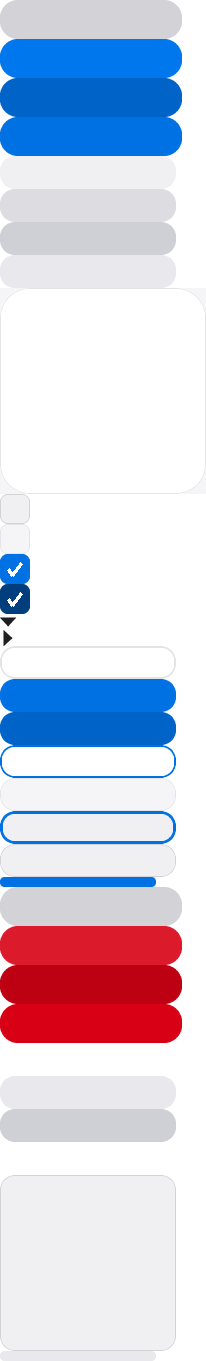
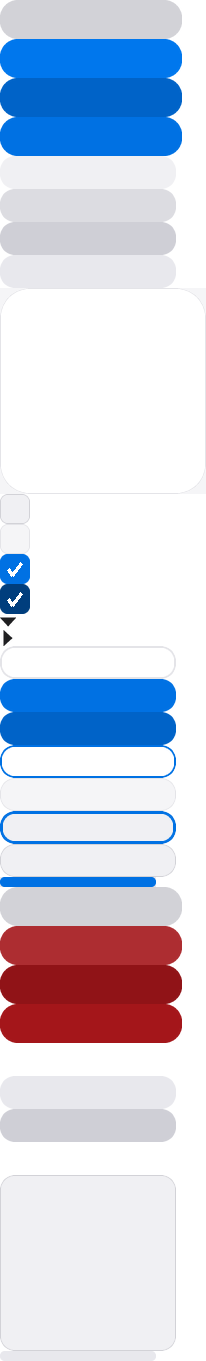
停止紅再暗一階：d70015 改成 a4161a
使用者說停止鈕感覺有點太亮，問 apple.com 的 CSS 有沒有更適合的。

先確認一件事：舊值不是選錯色票。d70015 正是 Apple 自己的 systemRed 高對比版
（Light）。所以問題不在不夠 Apple，而在那個色票本身的飽和度就是 100%——一顆
150px 寬的實心鈕坐在白卡片上，它是整個畫面最搶眼的一塊。Apple 的原版
systemRed（ff3b30／ff453a）更亮，而且白字只有 3.55／3.41:1，早在 08-26 就因為
讀不清楚被換掉了。

換成 a4161a（H 358 / S 87 / V 64），白字順帶從 5.38 升到 7.75:1。

深色模式跟著同值（使用者選的），但這裡有一個要盯著的取捨：紅愈深，在深灰卡片
上的明度差就愈小——d70015 對深卡 2.59、a4161a 只有 1.80。1.80 聽起來很低，但
明度不是唯一的線索：紅與中性灰的色相差異在深色底上照樣看得出來（四種紅畫成
比較圖、兩種底色各一排，看過才定的）。再往下走就不行了——8a0f14 對深卡只剩
1.43，那顆鈕會沉進背景。要再調暗之前先把深色那一排畫出來看。

⚠ 姊妹專案 MP4-2-SRT 的 stop 是同一個值（兩支程式在桌面上是一套，使用者
2026-08-26），那邊要跟著改，否則兩顆停止鈕在同一台機器上會差一階。這一輪沒有
動另一個 repo。

驗收：pytest 35 綠；淺色與深色各截一張轉檔中的畫面確認。

Claude-Session: https://claude.ai/code/session_01Q1JjZk7cZ55GLX3CFcFM2J

Changed region(s): [[0.0, 0.6789, 0.9029, 0.7715]]

diff --git a/pdf2ppt/palette.py b/pdf2ppt/palette.py
@@ -45,10 +45,21 @@ PALETTES = {
         # ---- 主色與動作鈕 ----
         "accent": "#0071e3", "accent_hi": "#0077ed",
         "on_accent": "#ffffff",
-        # ⚠ 停止鈕**兩個模式都用這個深紅**：深色模式的 systemRed（#ff453a）拿來
-        # 當大面積底色時，白字只有 3.4:1；#d70015 是 5.4:1。這顆鈕坐在主要動作的
-        # 位置上、字又是粗體，讀不清楚不是選項。
-        "stop": "#d70015",
+        # ⚠ 停止鈕**兩個模式都用這個深紅**（使用者 2026-08-27 選定）。兩次調整、
+        # 兩個不同的理由，都要留著：
+        #   **對比**（2026-08-26）：Apple 的 systemRed 拿來當大面積底色時白字不夠
+        #     ——#ff3b30 是 3.55:1、深色的 #ff453a 只有 3.41:1。這顆鈕坐在主要動作
+        #     的位置上、字又是粗體，讀不清楚不是選項。當時換成 #d70015（5.38:1），
+        #     那正是 Apple 自己的 systemRed 高對比版。
+        #   **視覺重量**（2026-08-27）：使用者說「感覺有點太亮」。#d70015 的飽和度
+        #     是 100%，在白卡片上是整個畫面最搶眼的一塊。往暗處走一階到 #a4161a
+        #     （S 87%、V 64%）之後不再刺眼，而白字順帶從 5.38 升到 **7.75:1**。
+        # ⚠ 深色模式**跟著同值**（使用者選的）：紅在深灰卡片上的明度差因此從 2.59
+        # 掉到 1.80，但**色相差異還在**，畫面上分得出來（四種紅的比較圖看過才定的）。
+        # 再往下走就不行了——#8a0f14 對深卡只剩 1.43，那顆鈕會沉進背景。
+        # ⚠ **姊妹專案 MP4-2-SRT 的 `stop` 也是這個鍵**（「兩支程式在桌面上是一套」，
+        # 使用者 2026-08-26）：這一個值改了，那邊要跟著改。
+        "stop": "#a4161a",
         "run_off": "#d2d2d7", "run_off_fg": "#8e8e93",
 
         # ---- 次要按鈕 ----
@@ -91,7 +102,7 @@ PALETTES = {
 
         "accent": "#0a84ff", "accent_hi": "#3395ff",
         "on_accent": "#ffffff",
-        "stop": "#d70015",
+        "stop": "#a4161a",   # ⚠ 與淺色同值，理由見那邊
         "run_off": "#3a3a3c", "run_off_fg": "#7c7c80",
 
         # ⚠ 次要按鈕比 meeting-scribe 亮一階（那邊是 #2c2c2e）：卡片正好也是

diff --git a/docs/dev/windows-環境與入口.md b/docs/dev/windows-環境與入口.md
@@ -440,7 +440,7 @@ PNG → base64 → `tk.PhotoImage` → `Style.element_create(..., "image", ...)`
 色票取自 `meeting-scribe` 那支工具的 UI 樣式模組 src/meeting_scribe/ui_style.py（那份的來源是 apple.com）：主色 `#0071e3`／`#0a84ff`（hover `#0077ed`／`#3395ff`）、次要底 `#e8e8ed`／`#3a3a3c`、輸入框 `#f5f5f7`／`#2c2c2e`、分隔線 `#d2d2d7`。兩處不同：
 
 - **深色的次要按鈕亮一階**（理由見上）。
-- **停止鈕兩個模式都用 `#d70015`**。深色的 systemRed（`#ff453a`）拿來當大面積底色時，白字只有 3.4:1；`#d70015` 是 5.4:1。這顆鈕坐在主要動作的位置上、字又是粗體 12pt，讀不清楚不是選項。
+- **停止鈕兩個模式都用同一個深紅**。深色的 systemRed（`#ff453a`）拿來當大面積底色時，白字只有 3.4:1；當時換成 `#d70015`（5.4:1），那正是 Apple 自己的 systemRed 高對比版。這顆鈕坐在主要動作的位置上、字又是粗體，讀不清楚不是選項。⚠ **2026-08-27 又往暗處走了一階到 `#a4161a`**，那次是「太亮」不是「讀不到」——見 §5.10 九。
 
 ⚠ **形狀不跟著抄**：meeting-scribe 的按鈕是膠囊（`button_*_radius: 999px`），這裡是 squircle。⚠ 跨 repo 的路徑寫在註解裡會被 `tests/test_docs_index.py` 的斷鏈檢查抓到，那一條要連同理由寫進它的 `_ALLOW`。
 
@@ -594,6 +594,27 @@ PNG → base64 → `tk.PhotoImage` → `Style.element_create(..., "image", ...)`
 **位置：左內距從 0 加回 `SP_SM`。** 先前為了讓底板左緣落在卡片內距上而給了 0（§5.10 六），底板確實對齊了，但**底板靜止時是看不見的**（低調皮＝卡片色），畫面上真正讀得到的是三角形，而它離卡片邊只剩底板自帶的 4px。⚠ 內距不會動到底板的位置，所以「六個直接子元件左緣都是 24」那條仍然成立——量的是元件邊緣，這裡加的是元件**裡面**的留白。
 
 ⚠ **沒有皮膚時退回文字前綴**（`App._set_chevron`），與 sv_ttk 缺席同一條原則。
+
+### 九、停止紅再暗一階：`#d70015` → `#a4161a`（2026-08-27）
+
+使用者說停止鈕「感覺有點太亮」，問 apple.com 的 CSS 有沒有更適合的。
+
+⚠ **先確認一件事：舊值不是選錯色票。** `#d70015` 正是 Apple 自己的 systemRed 高對比版（Light）。所以問題不在「不夠 Apple」，而在**那個色票本身的飽和度就是 100%**——一顆 150px 寬的實心鈕坐在白卡片上，它是整個畫面最搶眼的一塊。Apple 的原版 systemRed（`#ff3b30`／`#ff453a`）更亮，而且白字只有 3.55／3.41:1，早在 2026-08-26 就因為讀不清楚被換掉了。
+
+換成 `#a4161a`（H 358 / S 87 / V 64）：**白字順帶從 5.38 升到 7.75:1**。
+
+⚠ **深色模式跟著同值，但這裡有一個要盯著的取捨**：紅愈深，在深灰卡片（`#2c2c2e`）上的明度差就愈小——
+
+| | 白字 | 對白卡 | 對深卡 |
+| --- | --- | --- | --- |
+| `#ff3b30` Apple systemRed | 3.55 | 3.55 | 3.93 |
+| `#d70015` 舊值（systemRed 高對比） | 5.38 | 5.38 | **2.59** |
+| `#a4161a` 現值 | 7.75 | 7.75 | **1.80** |
+| `#8a0f14` 試過、否決 | 9.73 | 9.73 | **1.43** |
+
+1.80 聽起來很低，但**明度不是唯一的線索**：紅與中性灰的色相差異在深色底上照樣看得出來（四種紅畫成比較圖、兩種底色各一排，看過才定的）。⚠ **再往下走就不行了**——`#8a0f14` 對深卡只剩 1.43，那顆鈕會沉進背景。要再調暗之前先把深色那一排畫出來看。
+
+⚠ **姊妹專案 MP4-2-SRT 的 `stop` 是同一個值**（「兩支程式在桌面上是一套」，使用者 2026-08-26）：這個值改了，那邊要跟著改，否則兩顆停止鈕在同一台機器上會差一階。
 
 ### 驗收（與 §5.9 同一套，數字換新的）
 
